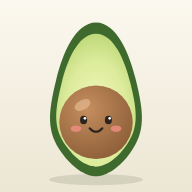
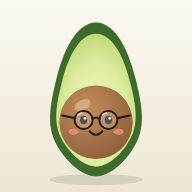
Añadir gafas al aguacate y regla de no repetir platos entre semanas
Icono con gafas redondas de montura negra, regenerado en todos los
tamaños. Nueva directriz 5 en las instrucciones: ningún plato, variante
ni menú diario se repite de una semana a la siguiente, con al menos una
semana completa entre repeticiones; se aplica a la semana anterior y a
la siguiente si ya está guardada, y las de dos a cuatro semanas antes
solo sirven para variar. La app avisa si el menú generado coincide por
nombre con la semana anterior o la siguiente. Reglas renumeradas, nueva
línea en Ajustes y nueva versión de la caché sin conexión.

Claude-Session: https://claude.ai/code/session_01DDFRim6RELPtL2qu1mJUCi

Changed region(s): [[0.3125, 0.5625, 0.6875, 0.7188]]

diff --git a/app.js b/app.js
@@ -106,17 +106,40 @@
     var g = state.semanas[isoDate(weekStart)];
     festivos = new Set(g ? arr(g.festivos) : []);
   }
-  // Platos de las cuatro semanas guardadas anteriores a la que se planifica, para variar.
-  function historialReciente() {
-    var actual = semanaIso();
-    return Object.keys(state.semanas).filter(function (k) { return k < actual; }).sort().reverse().slice(0, 4).map(function (k) {
-      var platos = [];
-      arr(state.semanas[k].resultado.dias).forEach(function (x) {
-        if (x.comida && x.comida.nombre) platos.push(x.comida.nombre);
-        if (x.cena && x.cena.nombre) platos.push(x.cena.nombre);
-      });
-      return { semana: k, platos: platos };
+  function platosDeSemana(iso) {
+    var g = state.semanas[iso];
+    if (!g) return null;
+    var platos = [];
+    arr(g.resultado.dias).forEach(function (x) {
+      if (x.comida && x.comida.nombre) platos.push(x.comida.nombre);
+      if (x.cena && x.cena.nombre) platos.push(x.cena.nombre);
     });
+    return platos;
+  }
+  function sumarDias(iso, n) { var d = new Date(iso + 'T12:00:00'); d.setDate(d.getDate() + n); return isoDate(d); }
+  // La semana anterior y la siguiente no pueden repetirse; las de 2 a 4 semanas antes solo sirven para variar.
+  function contextoRepeticion(actualIso) {
+    var previas = [];
+    [2, 3, 4].forEach(function (n) {
+      var p = platosDeSemana(sumarDias(actualIso, -7 * n));
+      if (p && p.length) previas.push({ hace: n, platos: p });
+    });
+    return { anterior: platosDeSemana(sumarDias(actualIso, -7)), siguiente: platosDeSemana(sumarDias(actualIso, 7)), previas: previas };
+  }
+  function norm(s) { return String(s || '').normalize('NFD').replace(/[̀-ͯ]/g, '').toLowerCase().replace(/\s+/g, ' ').trim(); }
+  // Platos de este menú cuyo nombre coincide con los de la semana anterior o la siguiente.
+  function repetidos(res, actualIso) {
+    var ctx = contextoRepeticion(actualIso), prohibidos = {}, out = [];
+    arr(ctx.anterior).forEach(function (n) { prohibidos[norm(n)] = 'la semana anterior'; });
+    arr(ctx.siguiente).forEach(function (n) { prohibidos[norm(n)] = prohibidos[norm(n)] ? 'las semanas anterior y siguiente' : 'la semana siguiente'; });
+    res.dias.forEach(function (x) {
+      [x.comida, x.cena].forEach(function (p) {
+        if (p && p.nombre && prohibidos[norm(p.nombre)] && !out.some(function (o) { return o.nombre === p.nombre; })) {
+          out.push({ nombre: p.nombre, donde: prohibidos[norm(p.nombre)] });
+        }
+      });
+    });
+    return out;
   }
   // Conserva como máximo dos años de menús.
   function podarSemanas() {
@@ -403,10 +426,12 @@
     var modelos = state.modelos.length
       ? state.modelos.map(function (m) { return '- ' + m.nombre + (m.notas ? ': ' + m.notas : ''); }).join('\n')
       : '(ninguno todavía)';
-    var previas = historialReciente();
-    var hist = previas.length
-      ? previas.map(function (x) { return '- Semana del ' + x.semana + ': ' + arr(x.platos).join('; '); }).join('\n')
-      : '(sin historial)';
+    var rep = contextoRepeticion(semanaIso());
+    var lineasHist = [];
+    if (rep.anterior) lineasHist.push('- SEMANA ANTERIOR (prohibido repetir cualquiera de estos platos o sus variantes): ' + rep.anterior.join('; '));
+    if (rep.siguiente) lineasHist.push('- SEMANA SIGUIENTE, ya guardada (prohibido repetir cualquiera de estos platos o sus variantes): ' + rep.siguiente.join('; '));
+    rep.previas.forEach(function (x) { lineasHist.push('- Hace ' + x.hace + ' semanas (pueden volver a aparecer, pero prioriza la variedad): ' + x.platos.join('; ')); });
+    var hist = lineasHist.length ? lineasHist.join('\n') : '(no hay semanas guardadas alrededor de esta)';
     var cole = '';
     if (nFotos) cole += 'Se adjuntan ' + nFotos + ' imagen(es) con el menú del colegio de esta semana. Léelas con atención y no completes con suposiciones lo que no se lea.\n';
     if (texto) cole += 'Texto del menú del colegio:\n' + texto + '\n';
@@ -426,11 +451,12 @@
         '2. Tope de proteína animal: ' + tope + ' g como máximo al día, sumando colegio, comida, cena y desayuno/merienda fijos. Proteína animal es la de carne, pescado, huevo y lácteos. Estima los gramos con raciones propias de la edad y valores de composición reconocidos (por ejemplo BEDCA) o el etiquetado. Del colegio no se conocen las raciones: estima una ración infantil estándar y devuelve igualmente un número. Si el colegio ya llega o casi llega al tope, pon una cena sin proteína animal.\n' +
         '3. Si la comida (del colegio o de casa) lleva proteína animal, la cena prioriza la proteína vegetal (legumbres, cereales integrales, tofu, cremas de frutos secos o semillas molidas). Si la comida ya es vegetal, la cena puede llevar una ración pequeña animal sin pasar del tope.\n' +
         '4. Complementa el menú del colegio: no repitas su ingrediente principal ni su técnica de cocinado el mismo día ni el día siguiente. Equilibra la semana entre verdura, fruta, legumbres, cereales, pescado, huevo y carne.\n' +
-        '5. Fruta y verdura de temporada en España según el mes de las fechas de la semana. Si dudas de la temporada de un producto, dilo.\n' +
-        '6. Sin ultraprocesados (NOVA 4: embutidos, salchichas, nuggets, galletas, cereales azucarados, zumos envasados, yogures de sabores, salsas comerciales, caldos concentrados), sin azúcares añadidos y sin edulcorantes. Endulza solo con la propia fruta.\n' +
-        '7. Usa los platos modelo como inspiración de sabores y texturas, sin repetir el mismo más de una vez por semana. Si alguno incumple una regla, adáptalo y avísalo en "suposiciones".',
+        '5. Sin repeticiones entre semanas: no repitas de una semana a la siguiente ningún plato, ni una variante del mismo con otro nombre (mismo ingrediente principal y misma preparación), ni un menú diario completo. Entre dos apariciones del mismo plato debe pasar al menos una semana completa. Se aplica a la semana anterior y a la siguiente si ya están guardadas, también a los platos modelo, y dentro de la misma semana tampoco repitas platos.\n' +
+        '6. Fruta y verdura de temporada en España según el mes de las fechas de la semana. Si dudas de la temporada de un producto, dilo.\n' +
+        '7. Sin ultraprocesados (NOVA 4: embutidos, salchichas, nuggets, galletas, cereales azucarados, zumos envasados, yogures de sabores, salsas comerciales, caldos concentrados), sin azúcares añadidos y sin edulcorantes. Endulza solo con la propia fruta.\n' +
+        '8. Usa los platos modelo como inspiración de sabores y texturas, sin repetir el mismo más de una vez por semana. Si alguno incumple una regla, adáptalo y avísalo en "suposiciones".',
       'PLATOS MODELO DE LA FAMILIA:\n' + modelos,
-      'PLATOS DE SEMANAS ANTERIORES (varía respecto a ellos):\n' + hist,
+      'PLATOS DE LAS SEMANAS GUARDADAS ALREDEDOR DE ESTA:\n' + hist,
       'MENÚ DEL COLEGIO:\n' + cole,
       nota ? 'NOTA DE LA FAMILIA PARA ESTA SEMANA:\n' + nota : '',
       'FORMATO DE LA RESPUESTA: responde SOLO con un objeto JSON, sin texto antes ni después, con esta forma:\n' +
@@ -448,7 +474,7 @@
         '  "suposiciones": ["..."],\n' +
         '  "preguntas": ["..."]\n' +
         '}\n' +
-        'Incluye los 7 días en orden. En los días con colegio "comida" es null y "cole" lleva el plato del colegio; en los días en casa "cole" es null y "comida" tiene la misma forma que "cena". Los gramos son números con punto decimal. En "comprobaciones" incluye al menos: tope de proteína animal, relación comida/cena, complemento del colegio, temporada, ausencia de ultraprocesados y azúcares, y seguridad de texturas.'
+        'Incluye los 7 días en orden. En los días con colegio "comida" es null y "cole" lleva el plato del colegio; en los días en casa "cole" es null y "comida" tiene la misma forma que "cena". Los gramos son números con punto decimal. En "comprobaciones" incluye al menos: tope de proteína animal, relación comida/cena, complemento del colegio, temporada, ausencia de ultraprocesados y azúcares, sin repeticiones entre semanas y seguridad de texturas.'
     ].filter(Boolean).join('\n\n');
   }
 
@@ -640,6 +666,12 @@
     if (over.length) {
       box.append(h('div', { class: 'estado bad', style: 'margin-top:12px' },
         'Por encima del tope de ' + nf.format(tope) + ' g: ' + over.map(function (x) { return x.dia; }).join(', ') + '. Revisa esos días o vuelve a generar el menú.'));
+    }
+    var rep = repetidos(res, inicioIso);
+    if (rep.length) {
+      box.append(h('div', { class: 'estado warn', style: 'margin-top:12px' }, h('b', { text: 'Platos repetidos' }),
+        h('p', { text: 'Estos platos ya aparecen en la semana anterior o en la siguiente. Conviene dejar al menos una semana entre repeticiones; prueba con «Generar otra versión».' }),
+        h('ul', { class: 'plain' }, rep.map(function (r) { return h('li', { text: r.nombre + ' (también en ' + r.donde + ')' }); }))));
     }
     if (dm === 0) {
       box.append(h('div', { class: 'estado', style: 'margin-top:12px' }, 'La proteína de desayuno y merienda está en 0 g. Si toma lácteos o huevo, indícalo en Ajustes para que el total sea real.'));

diff --git a/index.html b/index.html
@@ -162,6 +162,7 @@
         <li>De lunes a viernes con cole, solo cena. Sábados, domingos y festivos, comida y cena.</li>
         <li>Si la comida lleva proteína animal, la cena prioriza la proteína vegetal.</li>
         <li>Fruta y verdura de temporada, sin ultraprocesados, azúcares añadidos ni edulcorantes.</li>
+        <li>No se repiten platos ni menús de una semana a la siguiente: mínimo una semana de descanso entre repeticiones.</li>
         <li>Texturas seguras para la edad y sin pescados grandes con riesgo de mercurio.</li>
       </ul>
     </div>

diff --git a/sw.js b/sw.js
@@ -1,6 +1,6 @@
 /* Foddy: guarda la app en el dispositivo para que abra sin conexión.
    Las llamadas a Anthropic nunca pasan por aquí: solo se tratan archivos de la propia app. */
-const CACHE = 'foddy-v3';
+const CACHE = 'foddy-v4';
 const SHELL = [
   './', 'index.html', 'styles.css', 'app.js', 'manifest.webmanifest',
   'icons/icon.svg', 'icons/icon-180.png', 'icons/icon-192.png', 'icons/icon-512.png'
